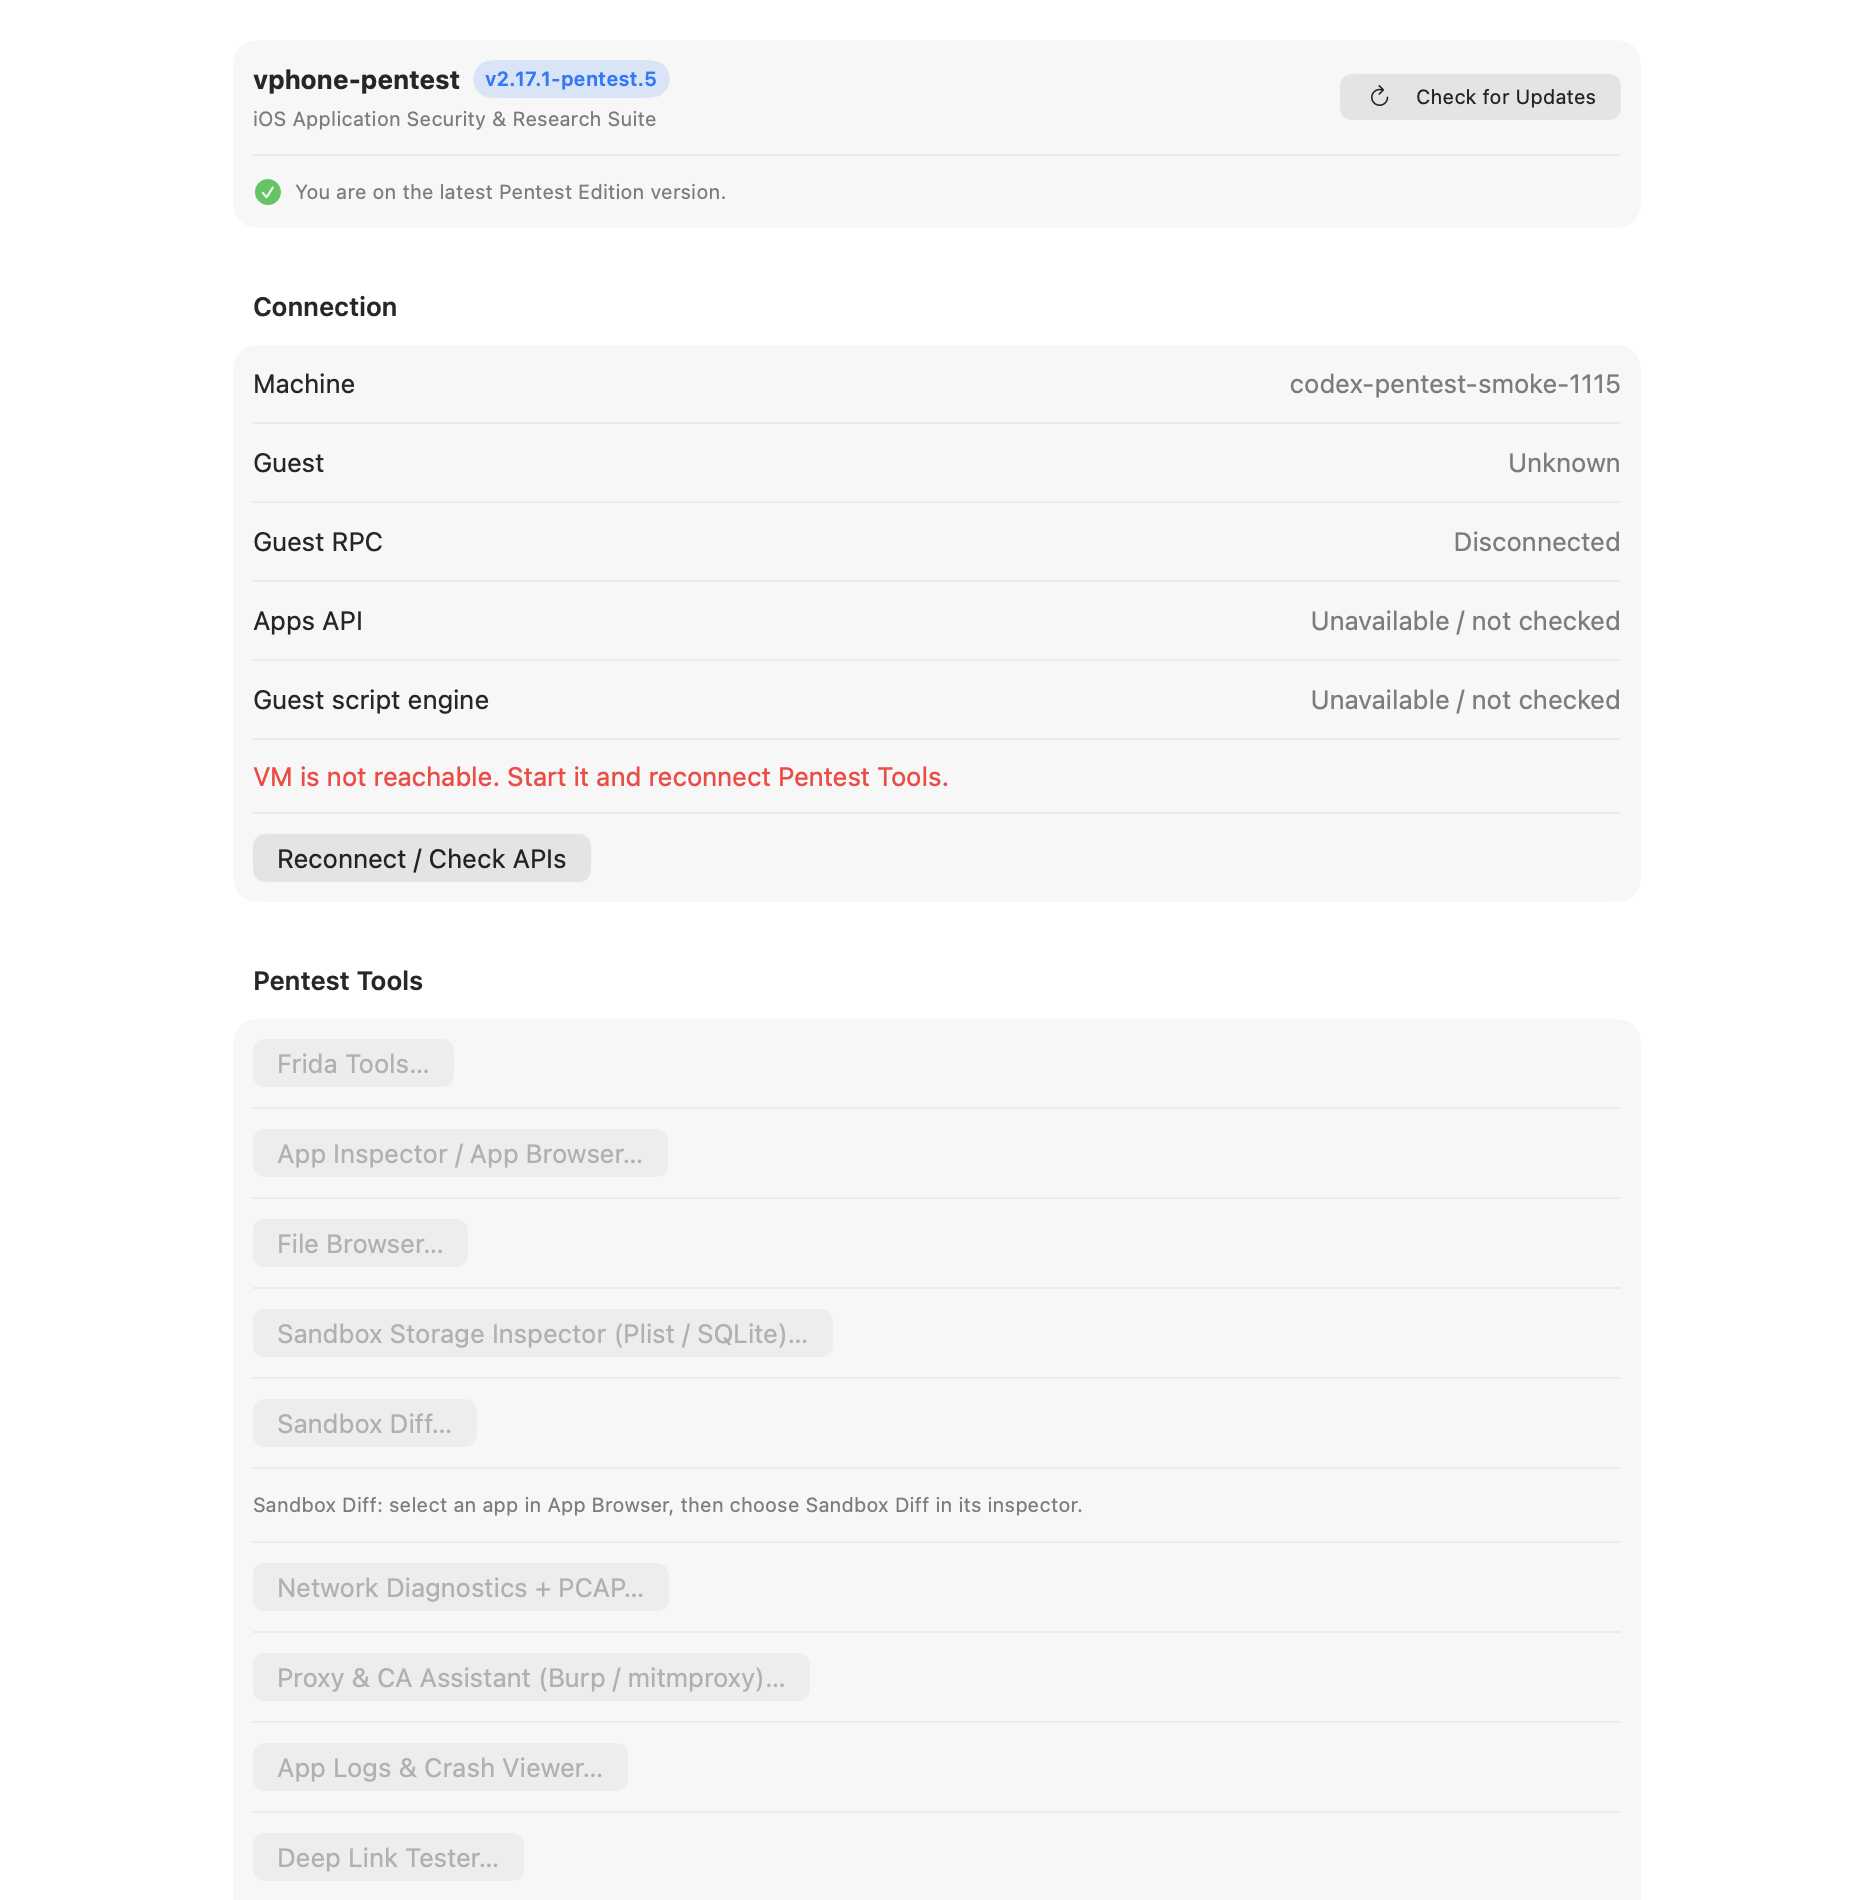
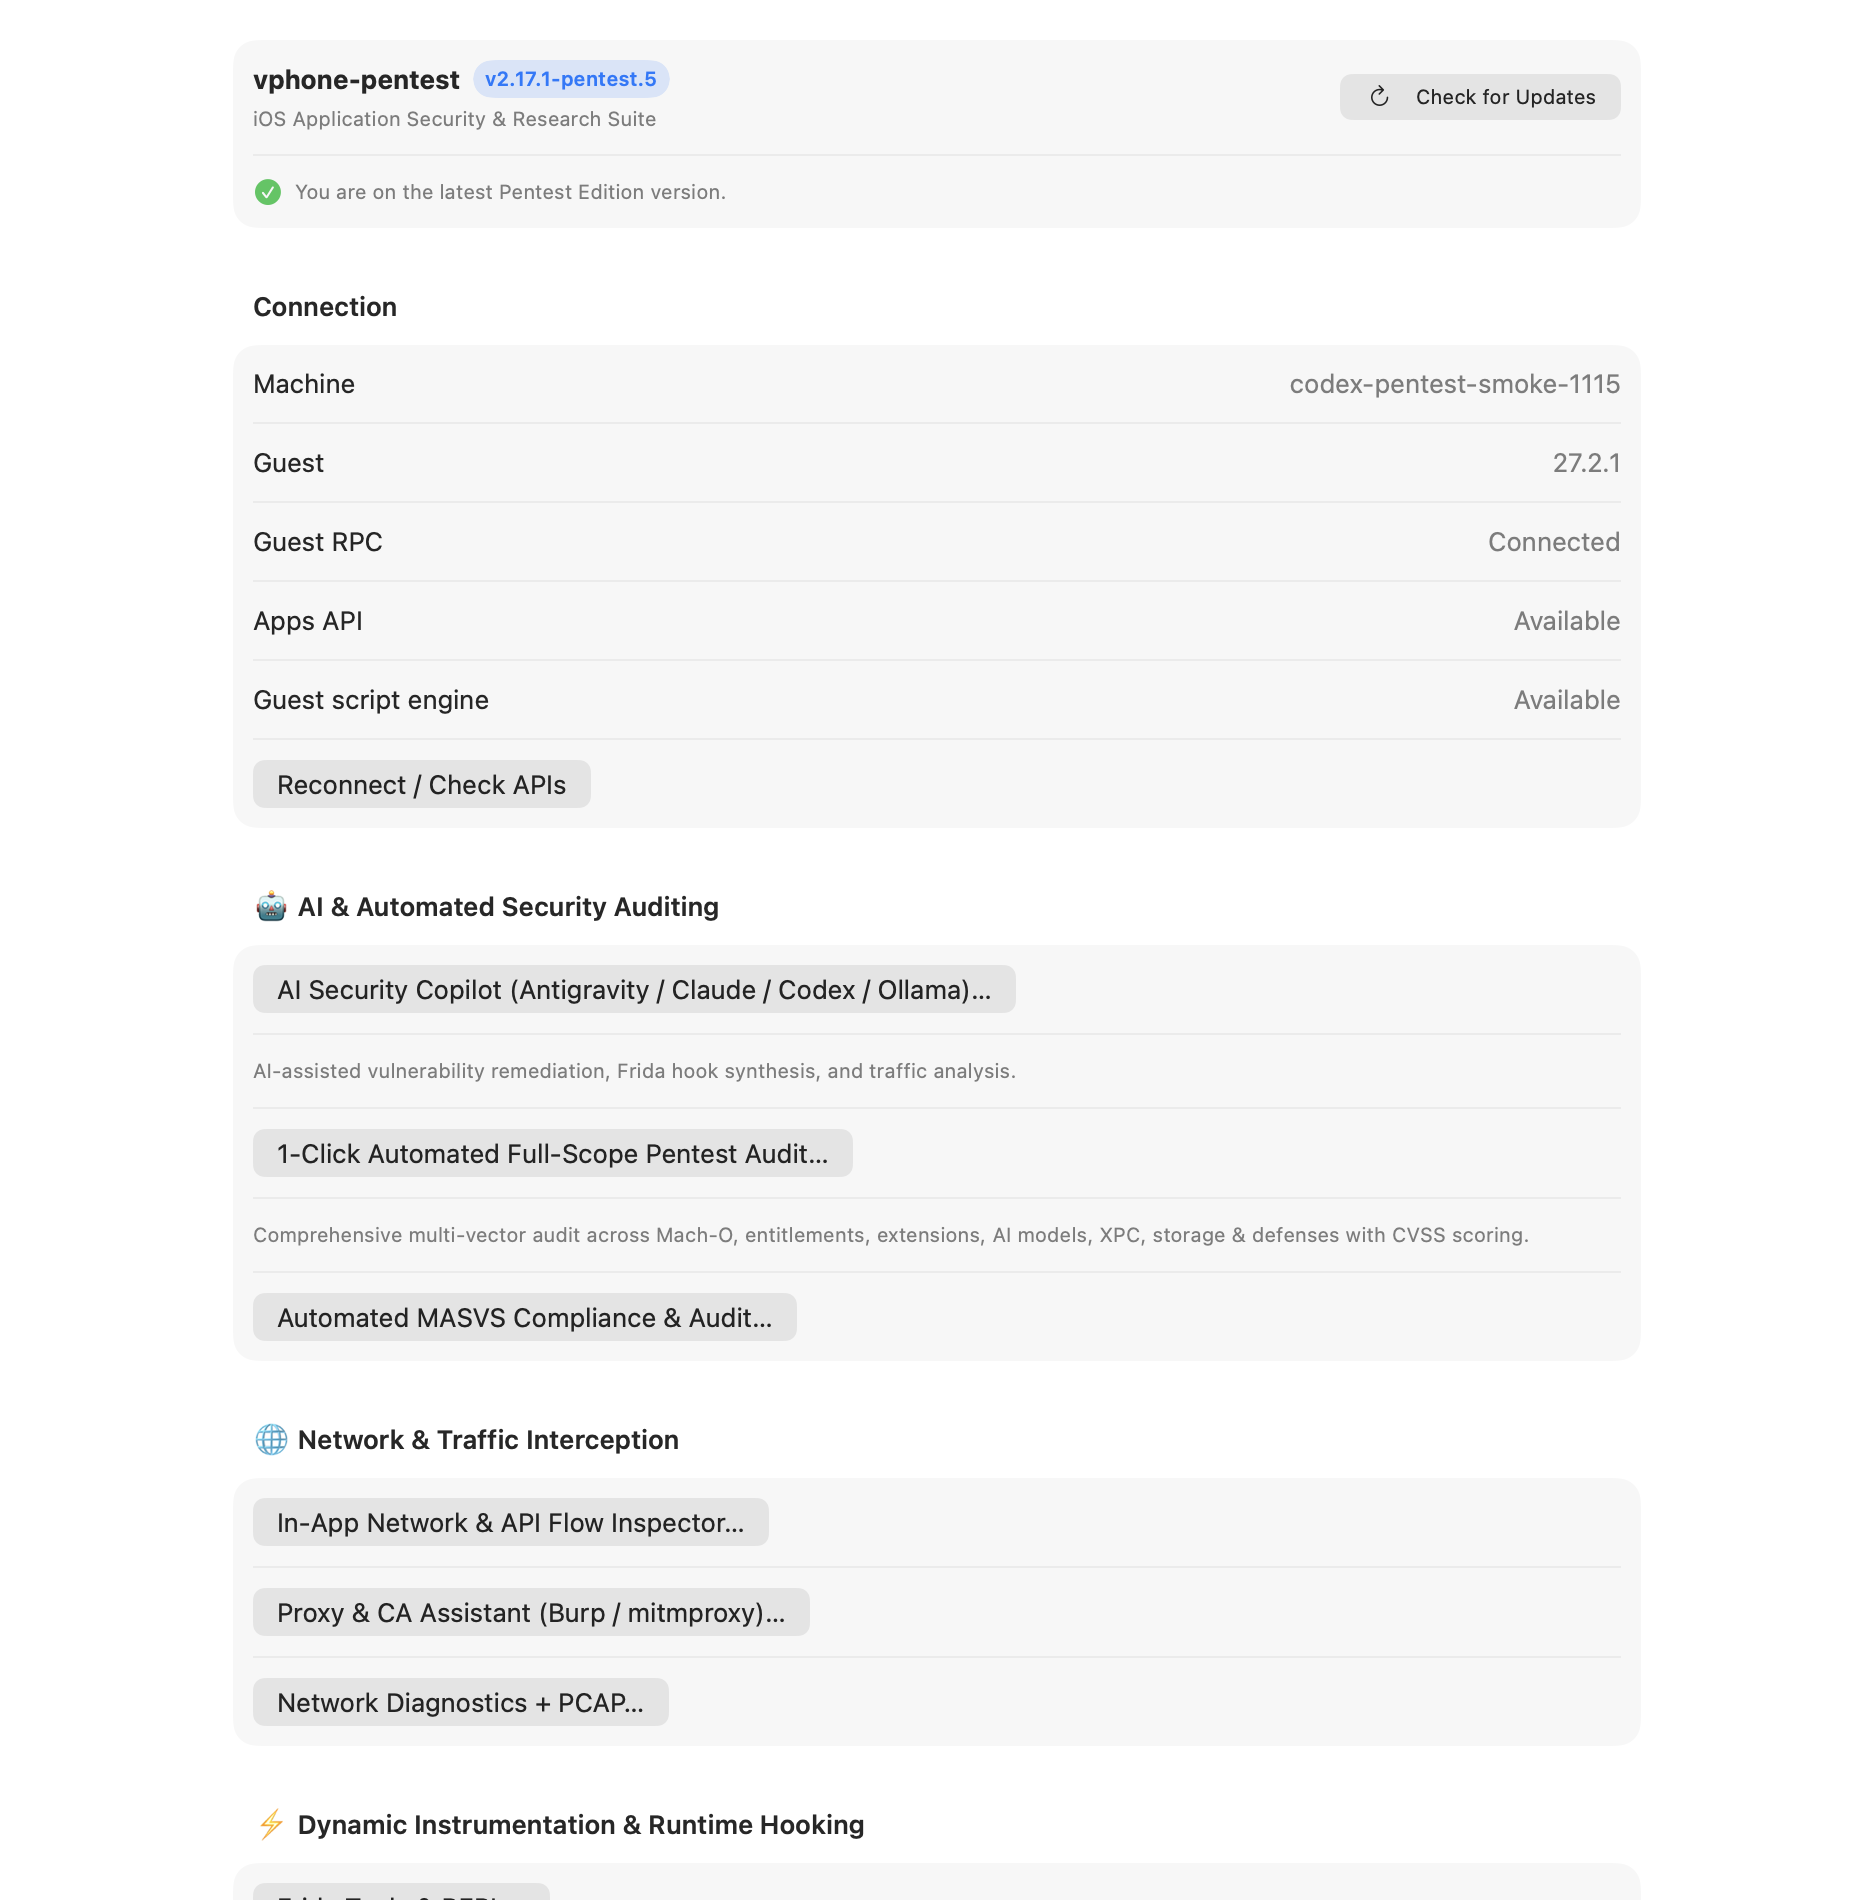
feat(ui): organize pentest tools into categorized sections in pentest hub

diff --git a/VPhoneLaunchpad/VPhonePentest/VPhonePentestApp.swift b/VPhoneLaunchpad/VPhonePentest/VPhonePentestApp.swift
@@ -316,48 +316,66 @@ private struct VPhonePentestHubView: View {
                 if let error = hub.control.connectionError { Text(error).foregroundStyle(.red).textSelection(.enabled) }
                 Button("Reconnect / Check APIs") { Task { await hub.reconnect() } }.disabled(hub.checking)
             }
-            Section("AI Security Copilot") {
+            Section("🤖 AI & Automated Security Auditing") {
                 Button("AI Security Copilot (Antigravity / Claude / Codex / Ollama)…") { hub.aiCopilot.show() }
                 Text("AI-assisted vulnerability remediation, Frida hook synthesis, and traffic analysis.").font(.caption).foregroundStyle(.secondary)
-            }
-            Section("Automated Full-Scope Audit") {
+
                 Button("1-Click Automated Full-Scope Pentest Audit…") { hub.fullAudit.show() }.disabled(!hub.control.supportsApps)
                 Text("Comprehensive multi-vector audit across Mach-O, entitlements, extensions, AI models, XPC, storage & defenses with CVSS scoring.").font(.caption).foregroundStyle(.secondary)
+
+                Button("Automated MASVS Compliance & Audit…") { hub.masvsAudit.show() }.disabled(!hub.control.supportsApps)
             }
-            Section("Pentest Tools") {
-                Button("Frida Tools…") { hub.fridaTools.show() }.disabled(!hub.control.supportsScripts)
-                Button("App Inspector / App Browser…") { hub.apps.showWindow(control: hub.control) }.disabled(!hub.control.supportsApps)
-                Button("File Browser…") { hub.files.show(path: "/var/mobile") }
-                Button("Sandbox Storage Inspector (Plist / SQLite)…") { hub.storage.show() }.disabled(!hub.control.supportsApps)
-                Button("Sandbox Diff…") { hub.apps.showWindow(control: hub.control) }.disabled(!hub.control.supportsApps || !hub.control.supportsScripts)
-                Text("Sandbox Diff: select an app in App Browser, then choose Sandbox Diff in its inspector.").font(.caption).foregroundStyle(.secondary)
-                Button("Network Diagnostics + PCAP…") { hub.network.show() }.disabled(!hub.control.supportsScripts)
-                Button("Proxy & CA Assistant (Burp / mitmproxy)…") { hub.proxyAssistant.show() }
-                Button("App Logs & Crash Viewer…") { hub.logs.show() }.disabled(!hub.control.supportsApps)
-                Button("Deep Link Tester…") { hub.links.show() }.disabled(!hub.control.supportsApps)
-                Button("Keychain Inspector…") { hub.keychain.show() }.disabled(!hub.control.supportsApps)
-                Button("Pasteboard / Clipboard Inspector & Fuzzer…") { hub.pasteboard.show() }
-                Button("Device & Hardware Mocking Hub…") { hub.deviceMocking.show() }
-                Button("Runtime Class & Method Inspector…") { hub.runtimeInspector.show() }.disabled(!hub.control.supportsApps)
-                Button("App Memory Search & Scanner…") { hub.memoryScanner.show() }.disabled(!hub.control.supportsApps)
+            .disabled(!hub.control.isConnected || hub.checking)
+
+            Section("🌐 Network & Traffic Interception") {
                 Button("In-App Network & API Flow Inspector…") { hub.networkFlowInspector.show() }.disabled(!hub.control.supportsApps)
+                Button("Proxy & CA Assistant (Burp / mitmproxy)…") { hub.proxyAssistant.show() }
+                Button("Network Diagnostics + PCAP…") { hub.network.show() }.disabled(!hub.control.supportsScripts)
+            }
+            .disabled(!hub.control.isConnected || hub.checking)
+
+            Section("⚡ Dynamic Instrumentation & Runtime Hooking") {
+                Button("Frida Tools & REPL…") { hub.fridaTools.show() }.disabled(!hub.control.supportsScripts)
                 Button("SSL Pinning & Jailbreak Bypass Studio…") { hub.bypassStudio.show() }.disabled(!hub.control.supportsApps)
-                Button("Dynamic Crypto Tracer & Key Sniffer…") { hub.cryptoTracer.show() }.disabled(!hub.control.supportsApps)
+                Button("Runtime Class & Method Inspector…") { hub.runtimeInspector.show() }.disabled(!hub.control.supportsApps)
+                Button("Live UI Component Inspector & Hidden View Revealer…") { hub.uiInspector.show() }.disabled(!hub.control.supportsApps)
+                Button("Jailbreak Defense Profiler & Bypass Recommender…") { hub.jbProfiler.show() }.disabled(!hub.control.supportsApps)
+            }
+            .disabled(!hub.control.isConnected || hub.checking)
+
+            Section("📂 Storage, Sandbox & Cryptography") {
+                Button("Sandbox Storage Inspector (Plist / SQLite)…") { hub.storage.show() }.disabled(!hub.control.supportsApps)
                 Button("Sandbox File Watcher & Integrity Monitor…") { hub.fileWatcher.show() }.disabled(!hub.control.supportsApps)
+                Button("File Browser…") { hub.files.show(path: "/var/mobile") }
+                Button("Keychain Inspector…") { hub.keychain.show() }.disabled(!hub.control.supportsApps)
+                Button("Dynamic Crypto Tracer & Key Sniffer…") { hub.cryptoTracer.show() }.disabled(!hub.control.supportsApps)
+                Button("Photos & Media Browser…") { hub.photos.show() }
+            }
+            .disabled(!hub.control.isConnected || hub.checking)
+
+            Section("🔍 Binary Analysis & Attack Surfaces") {
+                Button("App Inspector / App Browser…") { hub.apps.showWindow(control: hub.control) }.disabled(!hub.control.supportsApps)
                 Button("Mach-O & Entitlements Security Visualizer…") { hub.machOVisualizer.show() }.disabled(!hub.control.supportsApps)
                 Button("Binary Diffing & Security Baseline Scanner…") { hub.binaryDiff.show() }.disabled(!hub.control.supportsApps)
-                Button("Live Exception & Crash Signal Monitor…") { hub.crashMonitor.show() }.disabled(!hub.control.supportsApps)
-                Button("Automated MASVS Compliance & Audit…") { hub.masvsAudit.show() }.disabled(!hub.control.supportsApps)
+                Button("XPC & Mach Service / Entitlements Auditor…") { hub.xpcAuditor.show() }.disabled(!hub.control.supportsApps)
                 Button("App Extensions & Shared Containers Auditor…") { hub.appExtensionsAuditor.show() }.disabled(!hub.control.supportsApps)
                 Button("CoreML & On-Device AI Model Security Auditor…") { hub.coreMLAuditor.show() }.disabled(!hub.control.supportsApps)
-                Button("XPC & Mach Service / Entitlements Auditor…") { hub.xpcAuditor.show() }.disabled(!hub.control.supportsApps)
-                Button("Jailbreak Defense Profiler & Bypass Recommender…") { hub.jbProfiler.show() }.disabled(!hub.control.supportsApps)
-                Button("Live UI Component Inspector & Hidden View Revealer…") { hub.uiInspector.show() }.disabled(!hub.control.supportsApps)
+            }
+            .disabled(!hub.control.isConnected || hub.checking)
+
+            Section("🛡 Fuzzing, Memory & System Controls") {
+                Button("Deep Link Tester…") { hub.links.show() }.disabled(!hub.control.supportsApps)
+                Button("App Memory Search & Scanner…") { hub.memoryScanner.show() }.disabled(!hub.control.supportsApps)
+                Button("Pasteboard / Clipboard Inspector & Fuzzer…") { hub.pasteboard.show() }
+                Button("App Logs & Crash Viewer…") { hub.logs.show() }.disabled(!hub.control.supportsApps)
+                Button("Live Exception & Crash Signal Monitor…") { hub.crashMonitor.show() }.disabled(!hub.control.supportsApps)
+                Button("Device & Hardware Mocking Hub…") { hub.deviceMocking.show() }
                 Button("APFS Instant Snapshot & Rollback Hub…") { hub.snapshotManager.show() }
-                Button("Photos & Media Browser…") { hub.photos.show() }
                 Button("Evidence Export…") { hub.evidence.show() }
-            }.disabled(!hub.control.isConnected || hub.checking)
-            Section("Local IPA Tools") {
+            }
+            .disabled(!hub.control.isConnected || hub.checking)
+
+            Section("📦 Local IPA Tools") {
                 Button("Patch IPA with Frida Gadget…") { hub.gadgetPatcher.show() }
                 Text("Preparing a Gadget connection opens Frida Tools on its Session tab.").font(.caption).foregroundStyle(.secondary)
             }
